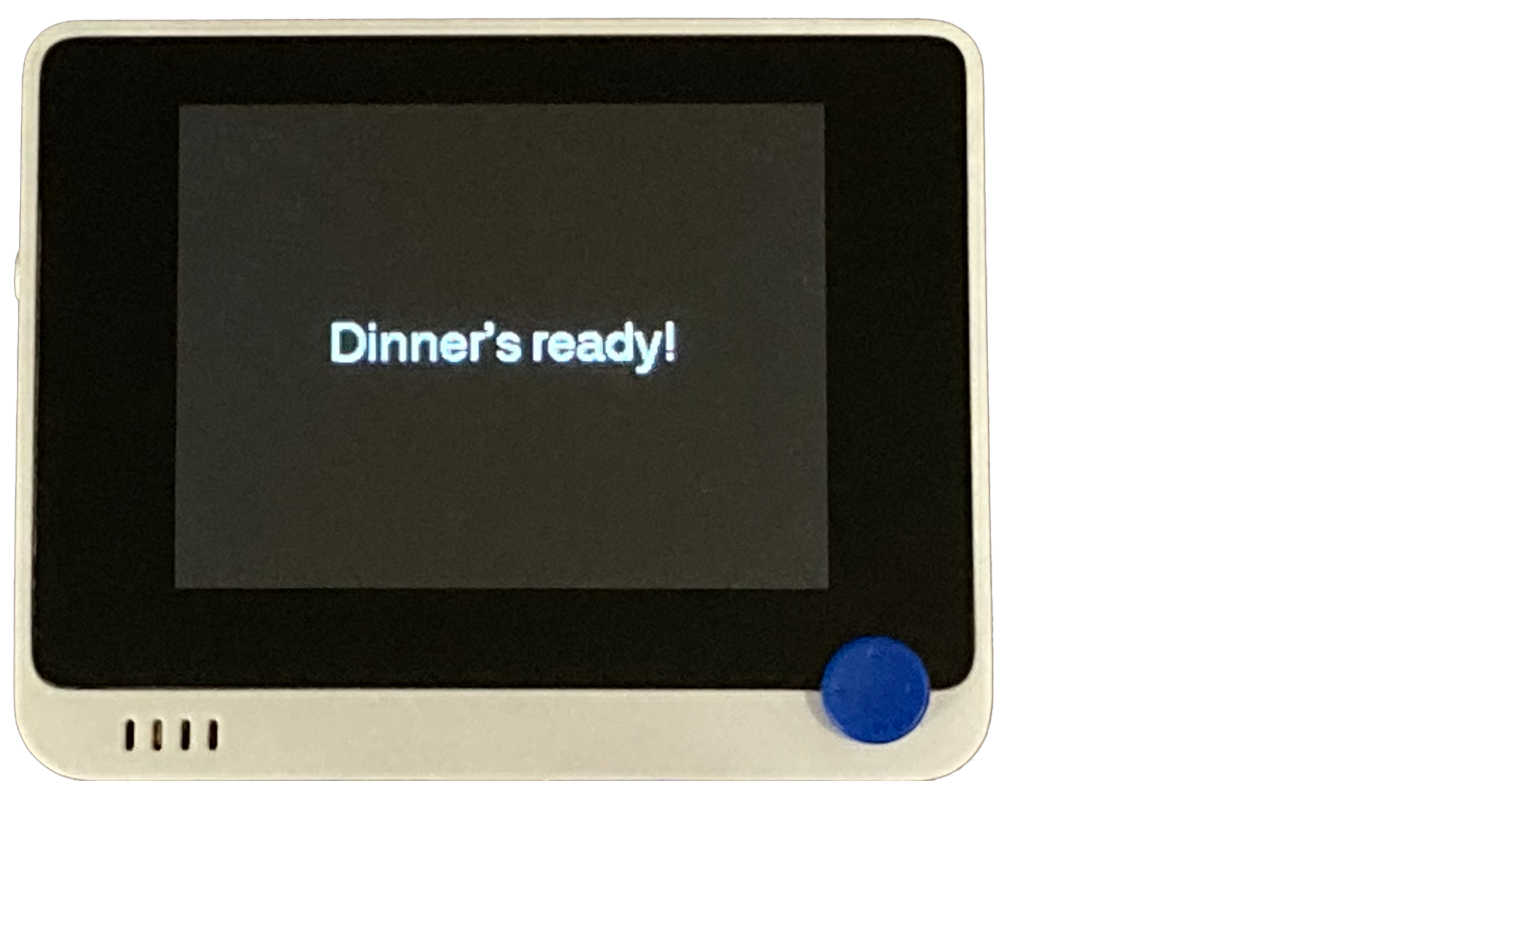
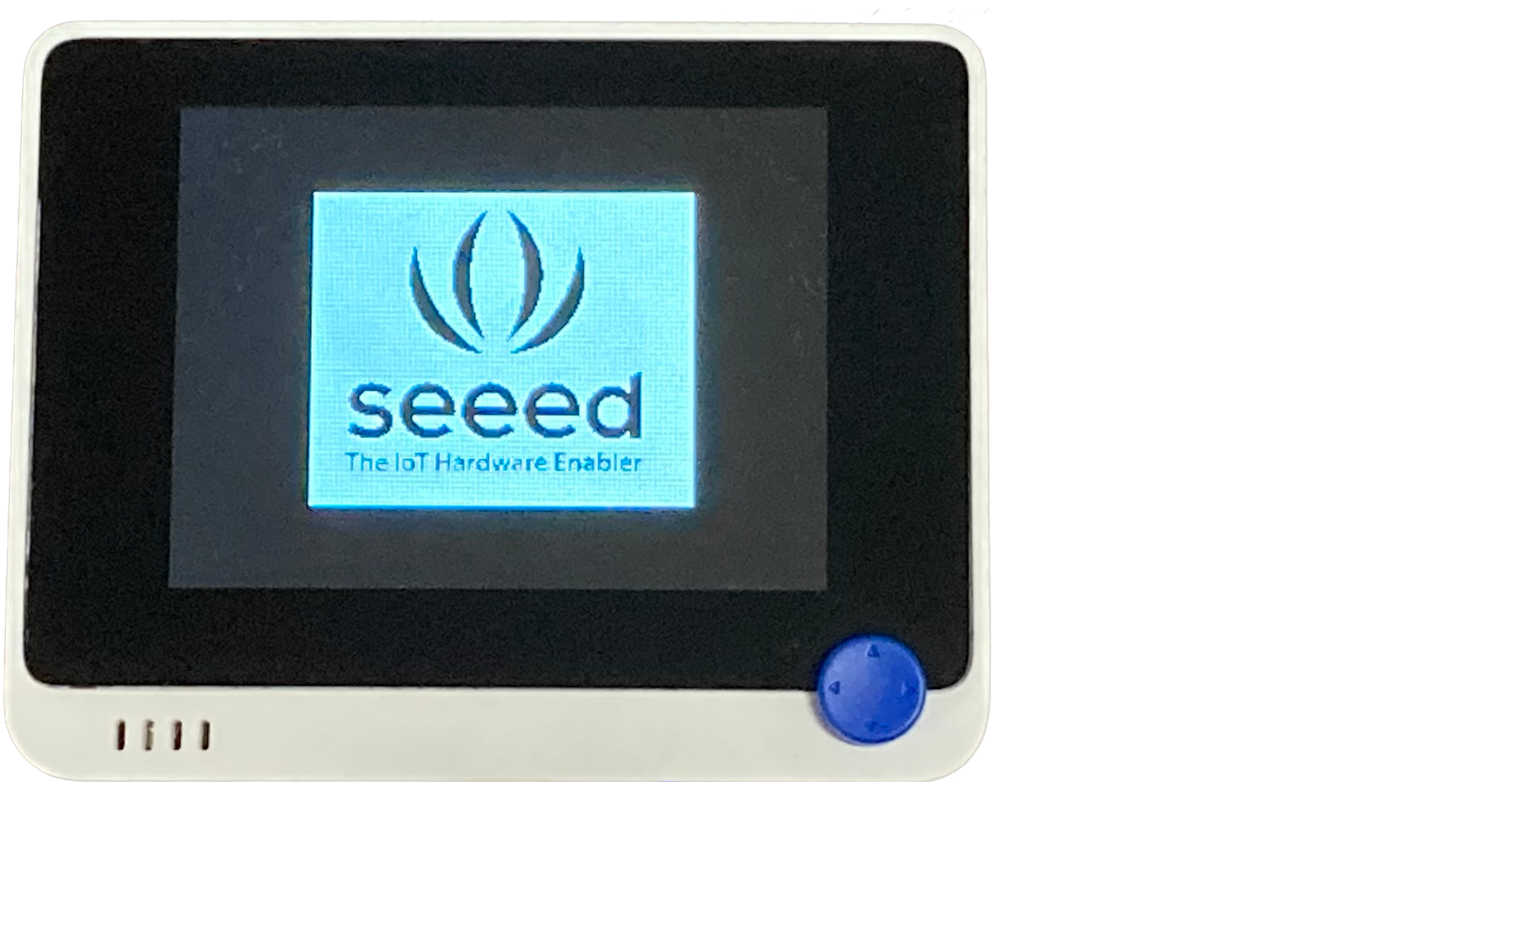
Modify wioterminal-digital-signage

Changed region(s): [[0.0, 0.0, 0.655, 0.8339]]

diff --git a/src/main.cpp b/src/main.cpp
@@ -650,6 +650,21 @@ static void ProjectLoop()
 
 #elif defined(PROJECT_WIOTERMINAL_DIGITAL_SIGNAGE)
 
+#include <HTTPClient.h>
+
+struct MessageType
+{
+    std::string ContentType;
+    std::string Content;
+};
+
+static MessageType Message_ = { .ContentType = "text", .Content = "" };
+static WiFiClientSecure client2;    // TODO
+
+static int RightButtonClickCount_ = 0;
+static int CenterButtonClickCount_ = 0;
+static int LeftButtonClickCount_ = 0;
+
 #include <AceButton.h>
 using namespace ace_button;
 
@@ -709,16 +724,114 @@ static void ButtonDoWork()
     }
 }
 
-static void DisplayMessage(const std::string& message)
+static bool DisplayMessageImageUrl(const std::string& content)
 {
+    StreamString payload;
+
+    Serial.printf("HTTPS GET %s\n", content.c_str());
+    HTTPClient https;
+    if (!https.begin(client2, content.c_str())) return false;
+    int httpCode = https.GET();
+    if (httpCode != HTTP_CODE_OK && httpCode != HTTP_CODE_MOVED_PERMANENTLY)
+    {
+        https.end();
+        return false;
+    }
+    payload = https.getString();
+    https.end();
+
+    const auto bitmap = &payload[0];
+    const auto bitmapSize = payload.length();
+
+    if (bitmapSize <= 14 + 40) return false;
+    if (bitmap[0] != 'B' || bitmap[1] != 'M') return false;
+    const uint32_t offset = *reinterpret_cast<int32_t*>(&bitmap[10]);
+    if (*reinterpret_cast<uint32_t*>(&bitmap[14]) != 40) return false;
+    const int32_t width = *reinterpret_cast<int32_t*>(&bitmap[18]);
+    const int32_t height = *reinterpret_cast<int32_t*>(&bitmap[22]);
+    if (*reinterpret_cast<uint16_t*>(&bitmap[26]) != 1) return false;
+    if (*reinterpret_cast<uint16_t*>(&bitmap[28]) != 1) return false;
+    if (*reinterpret_cast<uint16_t*>(&bitmap[30]) != 0) return false;
+
+    Serial.printf("bitmap is (%d,%d)\n", width, height);
+
+    const int lineSize = width / 32 * 4 + (width % 32 == 0 ? 0 : 4);
     Display_.Clear();
-    Display_.PrintMessage(message.c_str());
+    Gfx_.setColor(TFT_WHITE);
+    Gfx_.startWrite();
+    for (int y = 0; y < height; y++)
+    {
+        for (int x = 0; x < width; x++)
+        {
+            const bool bit = (bitmap[offset + (height - y - 1) * lineSize + x / 8] & 0x80 >> x % 8) != 0 ? true : false;
+            if (bit) Gfx_.writePixel((Gfx_.width() - width) / 2 + x, (Gfx_.height() - height) / 2 + y);
+        }
+        Serial.println();
+    }
+    Gfx_.endWrite();
+
+    return true;
 }
 
-static std::string Message_ = "";
-static int RightButtonClickCount_ = 0;
-static int CenterButtonClickCount_ = 0;
-static int LeftButtonClickCount_ = 0;
+static void DisplayMessage(const MessageType& message)
+{
+    Display_.Clear();
+
+    if (message.ContentType.compare("text") == 0)
+    {
+        Display_.PrintMessage(message.Content.c_str());
+    }
+    else if (message.ContentType.compare("imageUrl") == 0)
+    {
+        if (!DisplayMessageImageUrl(message.Content))
+        {
+            Display_.PrintMessage("(IMAGE)");
+        }
+    }
+}
+
+static void AziotSendConfirmContentTypeAndContent(const char* requestId, const char* name, const std::string& contentType, const std::string& content, int ackCode, int ackVersion)
+{
+	StaticJsonDocument<JSON_MAX_SIZE> doc;
+	doc[name]["value"]["contentType"] = contentType;
+	doc[name]["value"]["content"] = content;
+	doc[name]["ac"] = ackCode;
+	doc[name]["av"] = ackVersion;
+
+	char json[JSON_MAX_SIZE];
+	serializeJson(doc, json);
+
+	AziotHub_.SendTwinPatch(requestId, json);
+}
+
+static bool AziotUpdateWritablePropertyContentTypeAndContent(const char* name, std::string* contentType, std::string* content, const JsonVariant& desiredVersion, const JsonVariant& desired, const JsonVariant& reported = JsonVariant())
+{
+    bool ret = false;
+
+    JsonVariant desiredValue = desired[name];
+    JsonVariant reportedProperty = reported[name];
+
+	if (!desiredValue.isNull())
+    {
+        *contentType = desiredValue["contentType"].as<std::string>();
+        *content = desiredValue["content"].as<std::string>();
+        ret = true;
+    }
+
+    if (desiredValue.isNull())
+    {
+        if (reportedProperty.isNull())
+        {
+            AziotSendConfirmContentTypeAndContent("init", name, *contentType, *content, 200, 1);
+        }
+    }
+    else if (reportedProperty.isNull() || desiredVersion.as<int>() != reportedProperty["av"].as<int>())
+    {
+        AziotSendConfirmContentTypeAndContent("update", name, *contentType, *content, 200, desiredVersion.as<int>());
+    }
+
+    return ret;
+}
 
 static void ReceivedTwinDocument(const char* json, const char* requestId)
 {
@@ -726,9 +839,10 @@ static void ReceivedTwinDocument(const char* json, const char* requestId)
 	if (deserializeJson(doc, json)) return;
 	if (doc["desired"]["$version"].isNull()) return;
     
-    if (AziotUpdateWritableProperty("message", &Message_, doc["desired"]["$version"], doc["desired"], doc["reported"]))
+    if (AziotUpdateWritablePropertyContentTypeAndContent("message", &Message_.ContentType, &Message_.Content, doc["desired"]["$version"], doc["desired"], doc["reported"]))
     {
-		Serial.printf("message = %s\n", Message_.c_str());
+		Serial.printf("message.ContentType = %s\n", Message_.ContentType.c_str());
+		Serial.printf("message.Content = %s\n", Message_.Content.c_str());
     }
 
     doc.clear();
@@ -746,9 +860,10 @@ static void ReceivedTwinDesiredPatch(const char* json, const char* version)
 	if (deserializeJson(doc, json)) return;
 	if (doc["$version"].isNull()) return;
 
-    if (AziotUpdateWritableProperty("message", &Message_, doc["$version"], doc.as<JsonVariant>()))
+    if (AziotUpdateWritablePropertyContentTypeAndContent("message", &Message_.ContentType, &Message_.Content, doc["$version"], doc.as<JsonVariant>()))
     {
-		Serial.printf("message = %s\n", Message_.c_str());
+		Serial.printf("message.ContentType = %s\n", Message_.ContentType.c_str());
+		Serial.printf("message.Content = %s\n", Message_.Content.c_str());
 
         RightButtonClickCount_ = 0;
         CenterButtonClickCount_ = 0;
@@ -785,23 +900,21 @@ static void ProjectLoop()
         {
             StaticJsonDocument<JSON_MAX_SIZE> doc;
 
-            if (ButtonsClicked_[static_cast<int>(ButtonId::RIGHT)])
-            {
-                doc["rightButtonClickCount"] = ++RightButtonClickCount_;
-                ButtonsClicked_[static_cast<int>(ButtonId::RIGHT)] = false;
-            }
-            if (ButtonsClicked_[static_cast<int>(ButtonId::CENTER)])
-            {
-                doc["centerButtonClickCount"] = ++CenterButtonClickCount_;
-                ButtonsClicked_[static_cast<int>(ButtonId::CENTER)] = false;
-            }
-            if (ButtonsClicked_[static_cast<int>(ButtonId::LEFT)])
-            {
-                doc["leftButtonClickCount"] = ++LeftButtonClickCount_;
-                ButtonsClicked_[static_cast<int>(ButtonId::LEFT)] = false;
-            }
+            doc.clear();
+            if (ButtonsClicked_[static_cast<int>(ButtonId::RIGHT)]) doc["rightButton"] = "click";
+            if (ButtonsClicked_[static_cast<int>(ButtonId::CENTER)]) doc["centerButton"] = "click";
+            if (ButtonsClicked_[static_cast<int>(ButtonId::LEFT)]) doc["leftButton"] = "click";
+            AziotSendTelemetry<JSON_MAX_SIZE>(doc);
 
+            doc.clear();
+            if (ButtonsClicked_[static_cast<int>(ButtonId::RIGHT)]) doc["rightButtonClickCount"] = ++RightButtonClickCount_;
+            if (ButtonsClicked_[static_cast<int>(ButtonId::CENTER)]) doc["centerButtonClickCount"] = ++CenterButtonClickCount_;
+            if (ButtonsClicked_[static_cast<int>(ButtonId::LEFT)]) doc["leftButtonClickCount"] = ++LeftButtonClickCount_;
             AziotSendReadOnlyProperty<JSON_MAX_SIZE>(doc);
+
+            ButtonsClicked_[static_cast<int>(ButtonId::RIGHT)] = false;
+            ButtonsClicked_[static_cast<int>(ButtonId::CENTER)] = false;
+            ButtonsClicked_[static_cast<int>(ButtonId::LEFT)] = false;
         }
     }
 }

diff --git a/src/Config.cpp b/src/Config.cpp
@@ -13,7 +13,7 @@ const char MODEL_ID[] = "dtmi:seeedkk:wioterminal:wioterminal_watchdog;1";
 #elif defined(PROJECT_WIOTERMINAL_DUST_HM3301)
 const char MODEL_ID[] = "dtmi:seeedkk:wioterminal:wioterminal_dust;1";
 #elif defined(PROJECT_WIOTERMINAL_DIGITAL_SIGNAGE)
-const char MODEL_ID[] = "dtmi:seeedkk:wioterminal:wioterminal_digital_signage;1";
+const char MODEL_ID[] = "dtmi:seeedkk:wioterminal:wioterminal_digital_signage;2";
 #else
 #error No project macro defined.
 #endif
